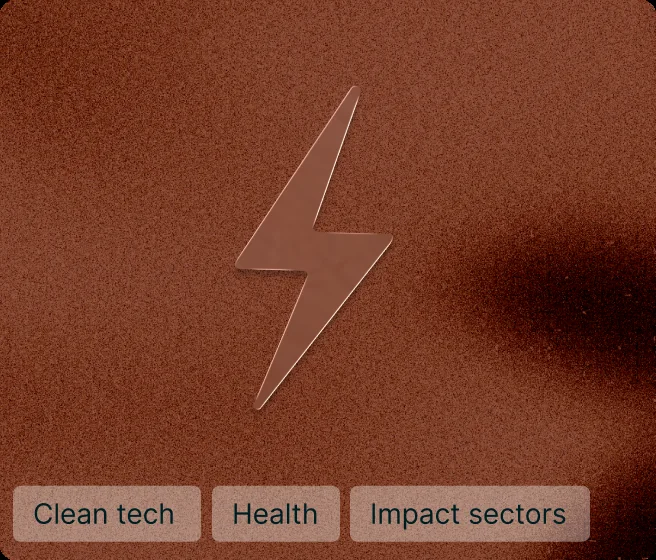
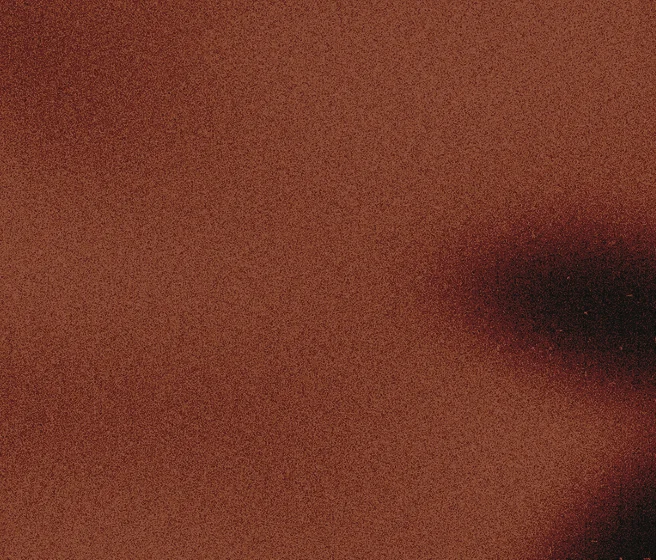
Scale layout fluidly and rebuild Work With card media

diff --git a/components/home/work-with.tsx b/components/home/work-with.tsx
@@ -5,6 +5,12 @@ const audiences = [
 	{
 		title: "Early-Stage Companies",
 		image: "/images/home/card-early-stage.webp",
+		art: {
+			src: "/images/svg/bolt.svg",
+			left: "36%",
+			top: "15.4%",
+			width: "24.1%",
+		},
 		surface: "bg-accent/25",
 		tags: ["Clean tech", "Health", "Impact sectors"],
 		points: [
@@ -16,6 +22,12 @@ const audiences = [
 	{
 		title: "Teams Building For Scale",
 		image: "/images/home/card-teams.webp",
+		art: {
+			src: "/images/svg/discs.svg",
+			left: "25.6%",
+			top: "22.9%",
+			width: "47%",
+		},
 		surface: "bg-[#6B7B4C]/25",
 		tags: ["Leadership without full-time CFO"],
 		points: [
@@ -27,6 +39,12 @@ const audiences = [
 	{
 		title: "Mission Aligned Orgs",
 		image: "/images/home/card-mission.webp",
+		art: {
+			src: "/images/svg/compass.svg",
+			left: "18%",
+			top: "6.8%",
+			width: "60.7%",
+		},
 		surface: "bg-olive/25",
 		tags: ["Nonprofits navigating funding and growth"],
 		points: [
@@ -39,8 +57,8 @@ const audiences = [
 
 export function WorkWith() {
 	return (
-		<section className="rounded-[20px] px-6 py-16 md:px-28">
-			<div className="flex flex-col gap-4 md:pl-[206px]">
+		<section className="rounded-[20px] px-6 py-16 md:fl-rounded-[20px]/desktop md:fl-py-[64px]/desktop md:fl-px-[112px]/desktop">
+			<div className="flex flex-col gap-4 md:fl-gap-[16px]/desktop md:fl-pl-[206px]/desktop">
 				<Label variant="2" className="text-accent">
 					WE Work With
 				</Label>
@@ -50,11 +68,11 @@ export function WorkWith() {
 					limited finance capacity.
 				</Paragraph>
 			</div>
-			<div className="mt-28 grid gap-6 md:grid-cols-3">
+			<div className="mt-28 grid gap-6 md:fl-mt-[112px]/desktop md:grid-cols-3 md:fl-gap-[24px]/desktop">
 				{audiences.map((audience) => (
 					<article
 						key={audience.title}
-						className={`flex flex-col gap-6 rounded-[12px] p-4 ${audience.surface}`}
+						className={`flex flex-col gap-6 rounded-[12px] p-4 md:fl-gap-[24px]/desktop md:fl-rounded-[12px]/desktop md:fl-p-[16px]/desktop ${audience.surface}`}
 					>
 						<div className="relative aspect-[328/280] overflow-hidden rounded-[8px]">
 							<Image
@@ -64,13 +82,36 @@ export function WorkWith() {
 								sizes="(max-width: 768px) 100vw, 328px"
 								className="object-cover"
 							/>
-							<ul className="sr-only">
+							<Image
+								src={audience.art.src}
+								alt=""
+								width={200}
+								height={200}
+								className="absolute h-auto"
+								style={{
+									left: audience.art.left,
+									top: audience.art.top,
+									width: audience.art.width,
+								}}
+							/>
+							<ul className="absolute inset-x-[2.1%] bottom-[3.2%] flex flex-wrap gap-[5px]">
 								{audience.tags.map((tag) => (
-									<li key={tag}>{tag}</li>
+									<li
+										key={tag}
+										className="rounded-[4px] bg-[#F7F5F1]/37 px-3 py-1 md:fl-rounded-[4px]/desktop md:fl-px-[12px]/desktop"
+									>
+										<Paragraph
+											variant="7"
+											as="span"
+											className="text-sage-foreground"
+										>
+											{tag}
+										</Paragraph>
+									</li>
 								))}
 							</ul>
 						</div>
-						<div className="flex flex-col gap-4 px-2 pb-2">
+						<div className="flex flex-col gap-6 p-2 md:fl-gap-[24px]/desktop md:fl-p-[8px]/desktop">
 							<Heading
 								variant="4"
 								as="h3"
@@ -78,7 +119,7 @@ export function WorkWith() {
 							>
 								{audience.title}
 							</Heading>
-							<ul className="flex list-disc flex-col gap-1 pl-4">
+							<ul className="flex list-disc flex-col pl-4 md:fl-pl-[16px]/desktop">
 								{audience.points.map((point) => (
 									<Accent variant="1" as="li" key={point}>
 										{point}

diff --git a/components/home/hero.tsx b/components/home/hero.tsx
@@ -19,13 +19,13 @@ const services = [
 
 export function Hero() {
 	return (
-		<section className="rounded-[20px] bg-background p-6 md:p-[52px]">
-			<div className="flex flex-col gap-12 md:gap-[72px]">
-				<div className="flex flex-col justify-between gap-10 md:flex-row">
+		<section className="rounded-[20px] bg-background p-6 md:fl-rounded-[20px]/desktop md:fl-p-[52px]/desktop">
+			<div className="flex flex-col gap-12 md:fl-gap-[72px]/desktop">
+				<div className="flex flex-col justify-between gap-10 md:flex-row md:fl-gap-[40px]/desktop">
 					<Heading variant="1" as="h1" className="max-w-[579px]">
 						Strategic Finance Operations for Scaling and Growth
 					</Heading>
-					<div className="flex w-full flex-col items-start gap-8 md:max-w-[408px]">
+					<div className="flex w-full flex-col items-start gap-8 md:fl-max-w-[408px]/desktop md:fl-gap-[32px]/desktop">
 						<Paragraph variant="4" className={""}>
 							We build integrated financial and operational
 							infrastructure that supports sustainable growth,
@@ -35,7 +35,7 @@ export function Hero() {
 						<Button variant="outline">Get Started</Button>
 					</div>
 				</div>
-				<div className="relative aspect-[1248/635] w-full overflow-hidden rounded-[12px]">
+				<div className="relative aspect-[1248/635] w-full overflow-hidden rounded-[12px] md:fl-rounded-[12px]/desktop">
 					<Image
 						src="/images/home/hero-panel.webp"
 						alt="Verdant service areas over an aerial view of farmland"

diff --git a/components/home/difference.tsx b/components/home/difference.tsx
@@ -3,7 +3,7 @@ import { Heading, Label } from "@/components/ui/typography";
 
 export function Difference() {
 	return (
-		<section className="surface-sage relative overflow-hidden rounded-[20px]">
+		<section className="surface-sage relative overflow-hidden rounded-[20px] md:fl-rounded-[20px]/desktop">
 			<Image
 				src="/images/home/difference-bg.webp"
 				alt=""
@@ -11,8 +11,8 @@ export function Difference() {
 				sizes="100vw"
 				className="object-cover opacity-[0.28]"
 			/>
-			<div className="relative grid gap-10 p-6 md:grid-cols-2 md:items-center md:p-20">
-				<div className="flex flex-col gap-6">
+			<div className="relative grid gap-10 p-6 md:grid-cols-2 md:items-center md:fl-gap-[40px]/desktop md:fl-p-[80px]/desktop">
+				<div className="flex flex-col gap-6 md:fl-gap-[24px]/desktop">
 					<Label variant="2" className="text-light-muted">
 						The difference
 					</Label>
@@ -21,7 +21,7 @@ export function Difference() {
 						on integration
 					</Heading>
 				</div>
-				<div className="relative aspect-[675/679] overflow-hidden rounded-[12px]">
+				<div className="relative aspect-[675/679] overflow-hidden rounded-[12px] md:fl-rounded-[12px]/desktop">
 					<Image
 						src="/images/home/difference-panel.webp"
 						alt="Concentric rings mapping operations and finance onto one system"

diff --git a/components/home/story.tsx b/components/home/story.tsx
@@ -5,8 +5,8 @@ const steps = [1, 2, 3, 4];
 
 export function Story() {
 	return (
-		<section className="surface-light flex flex-col gap-12 p-6 md:p-[52px]">
-			<div className="flex flex-col gap-4">
+		<section className="surface-light flex flex-col gap-12 p-6 md:fl-gap-[48px]/desktop md:fl-p-[52px]/desktop">
+			<div className="flex flex-col gap-4 md:fl-gap-[16px]/desktop">
 				<Label variant="2" className="text-light-muted">
 					Story
 				</Label>
@@ -21,7 +21,7 @@ export function Story() {
 				{steps.map((step, index) => (
 					<li
 						key={step}
-						className="flex flex-1 flex-col items-center gap-6"
+						className="flex flex-1 flex-col items-center gap-6 md:fl-gap-[24px]/desktop"
 					>
 						<Numeral className={cn(index > 0 && "text-[#AEAEAE]")}>
 							{step}
@@ -37,7 +37,7 @@ export function Story() {
 							/>
 							<span
 								className={cn(
-									"size-2 rounded-full",
+									"size-2 rounded-full md:fl-size-[8px]/desktop",
 									index === 0
 										? "bg-light-foreground"
 										: "bg-[#D7D7D7]",

diff --git a/components/home/what-we-do.tsx b/components/home/what-we-do.tsx
@@ -3,10 +3,13 @@ import { Paragraph, Title } from "@/components/ui/typography";
 
 export function WhatWeDo() {
 	return (
-		<section className="flex flex-col items-center gap-[61px] rounded-[20px] bg-background p-6 md:p-[52px]">
-			<div className="flex flex-col items-center gap-4 text-center">
+		<section className="flex flex-col items-center gap-[61px] rounded-[20px] bg-background p-6 md:fl-rounded-[20px]/desktop md:fl-p-[52px]/desktop">
+			<div className="flex flex-col items-center gap-4 text-center md:fl-gap-[16px]/desktop">
 				<Title variant="2">What We Do</Title>
-				<Paragraph variant="2" className="max-w-[596px]">
+				<Paragraph
+					variant="2"
+					className="max-w-[596px] md:fl-max-w-[596px]/desktop"
+				>
 					Integration is our differentiator. We don&rsquo;t build
 					budgets in isolation from staffing plans or create forecasts
 					disconnected from operational capacity.

diff --git a/app/globals.css b/app/globals.css
@@ -64,14 +64,26 @@ body {
 		color: var(--foreground);
 	}
 
+	.glass {
+		border: 1px solid rgb(255 255 255 / 0.15);
+		backdrop-filter: blur(24px);
+		-webkit-backdrop-filter: blur(24px);
+		box-shadow:
+			inset 3px 3px 16px rgb(0 0 0 / 0.4),
+			inset -3px -3px 16px rgb(255 255 255 / 0.12);
+	}
+
 	.surface-glass {
 		--foreground: #ffffff;
 		--muted: #bfbebe;
 		background: rgb(55 44 35 / 0.2);
 		color: var(--foreground);
+		border: 1px solid rgb(255 255 255 / 0.08);
 		backdrop-filter: blur(24px);
 		-webkit-backdrop-filter: blur(24px);
-		box-shadow: 0 4px 4px rgb(0 0 0 / 0.07);
+		box-shadow:
+			0 4px 4px rgb(0 0 0 / 0.07),
+			inset 0 2px 32px rgb(255 255 255 / 0.06);
 	}
 
 	.surface-dark {

diff --git a/components/home/join-us.tsx b/components/home/join-us.tsx
@@ -4,9 +4,9 @@ import { Label, Paragraph, Title } from "@/components/ui/typography";
 
 export function JoinUs() {
 	return (
-		<section className="flex-col  md:flex justify-between gap-10 p-6 md:flex-row md:gap-20 md:p-[52px]">
-			<div className="flex flex-1 flex-col gap-[60px] md:gap-[120px]">
-				<div className="flex flex-col gap-4">
+		<section className="flex-col justify-between gap-10 p-6 md:flex md:flex-row md:fl-gap-[80px]/desktop md:fl-p-[52px]/desktop">
+			<div className="flex flex-1 flex-col gap-[60px] md:fl-gap-[120px]/desktop">
+				<div className="flex flex-col gap-4 md:fl-gap-[16px]/desktop">
 					<Label variant="2" className="text-light-muted">
 						Join us
 					</Label>

diff --git a/components/ui/button.tsx b/components/ui/button.tsx
@@ -2,7 +2,7 @@ import { cva, type VariantProps } from "class-variance-authority";
 import { cn } from "@/lib/utils";
 
 const buttonVariants = cva(
-	"inline-flex items-center justify-center gap-1 rounded-[12px] px-7 py-2 font-sans text-[16px] leading-6 font-medium tracking-[-0.008em] transition-opacity hover:opacity-90",
+	"inline-flex items-center justify-center gap-1 rounded-[12px] px-7 py-2 font-sans fl-text-[16px]/mobile leading-6 font-medium tracking-[-0.008em] transition-opacity hover:opacity-90 md:fl-rounded-[12px]/desktop md:fl-text-[16px]/desktop",
 	{
 		variants: {
 			variant: {

diff --git a/app/fonts.ts b/app/fonts.ts
@@ -7,7 +7,6 @@ export const inter = Inter({
 	display: "swap",
 });
 
-
 export const labilGrotesk = localFont({
 	src: "./fonts/LabilGrotesk-Medium.woff2",
 	weight: "500",
@@ -15,7 +14,6 @@ export const labilGrotesk = localFont({
 	variable: "--font-labil-grotesk",
 	display: "swap",
 });
-
 
 export const berlingskeSerif = localFont({
 	src: [
